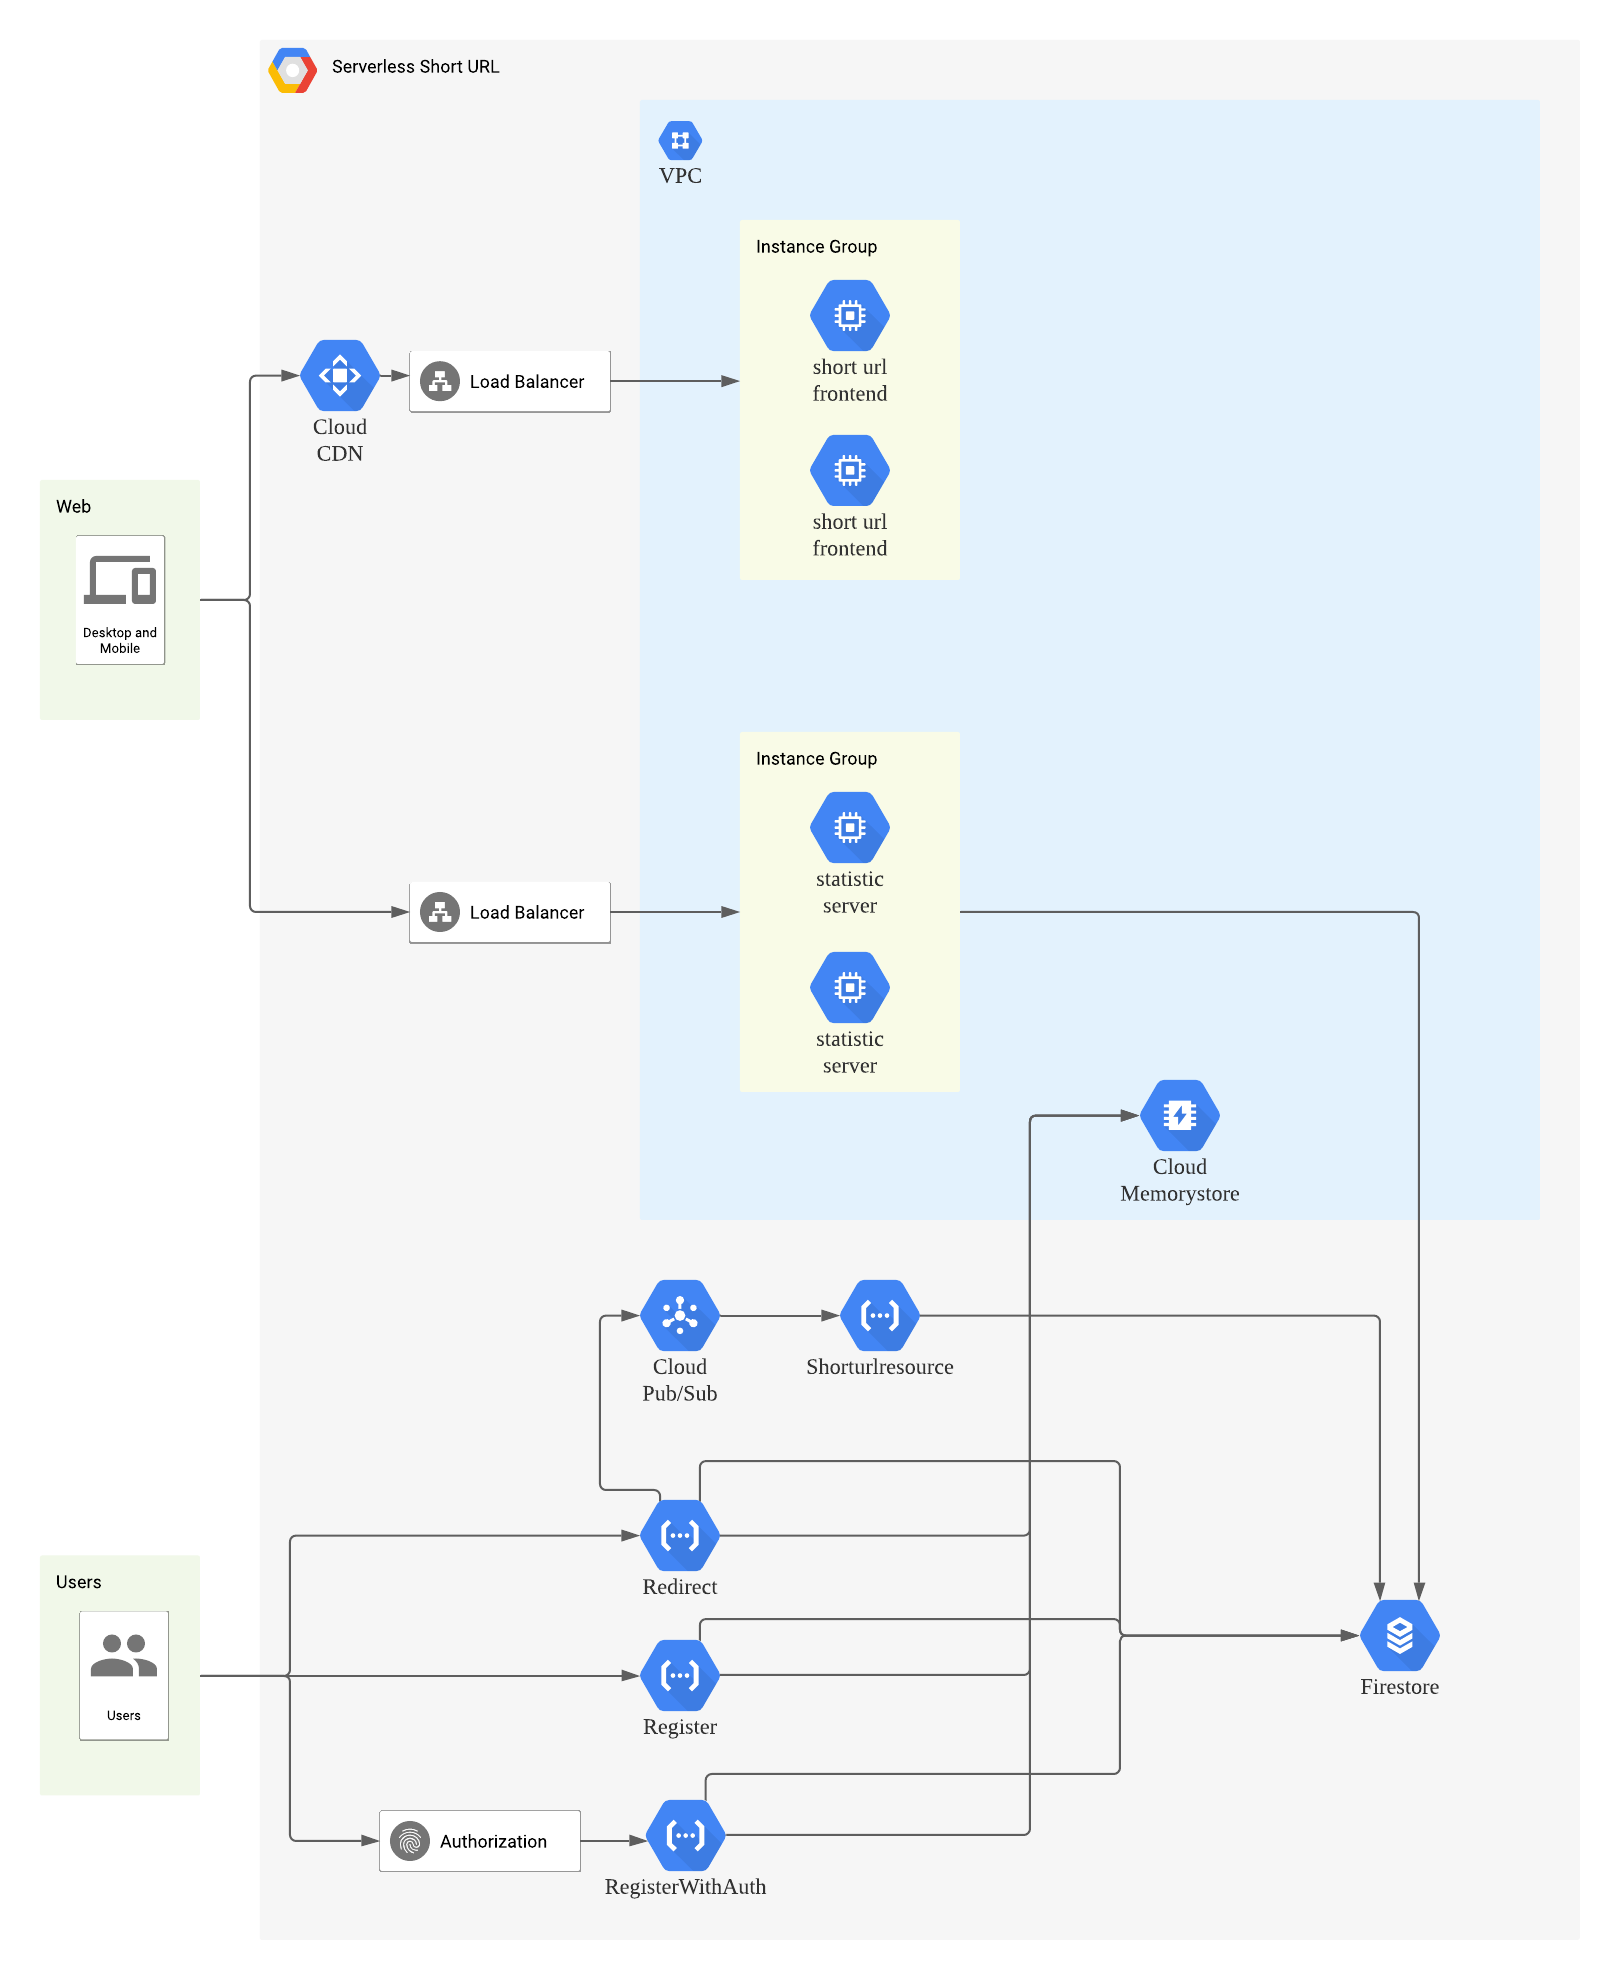
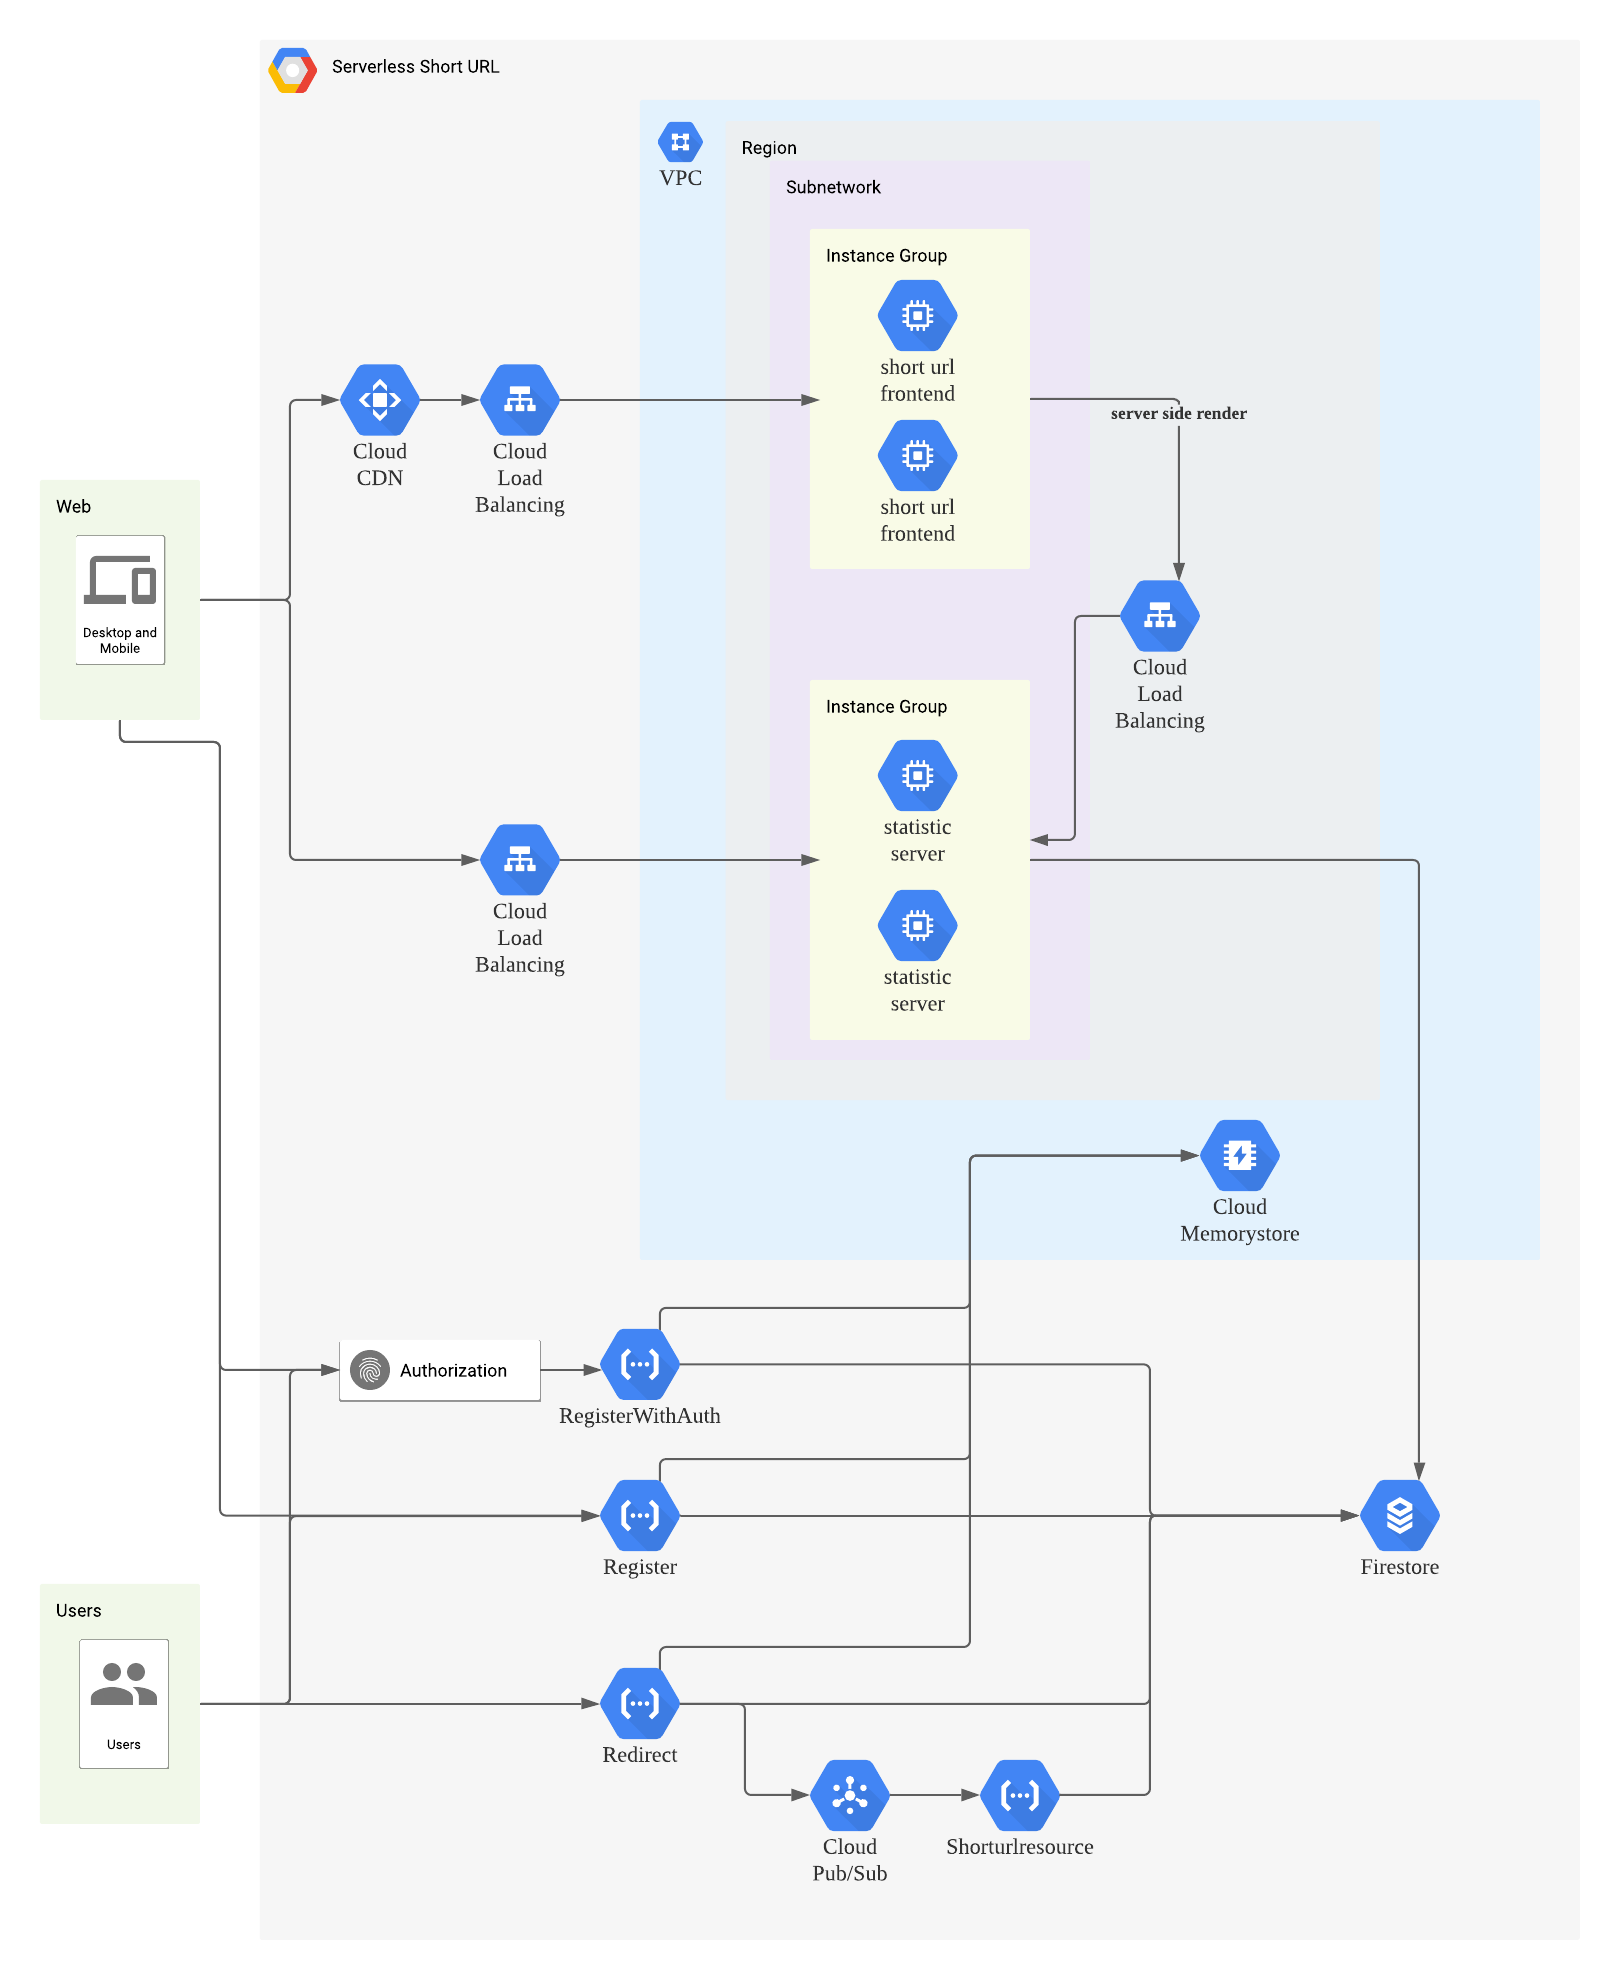
Update REAMD.md

diff --git a/README.md b/README.md
@@ -1,6 +1,6 @@
 # Serverless short url
 
-Serverless architecture project, currently only provide short url register, registerWithAuth and redirect features.  
+Serverless architecture project, currently provide short url register, registerWithAuth and redirect features, and simple frontend page.
 
 ## Arch
 
